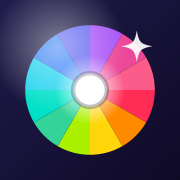
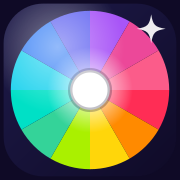
feat: add manifest file for PWA support with color conversion app details

diff --git a/src/app/manifest.ts b/src/app/manifest.ts
@@ -1,0 +1,28 @@
+import type { MetadataRoute } from 'next'
+
+// Required for `output: 'export'` (GitHub Pages) — generate at build time.
+export const dynamic = 'force-static'
+
+// Mesma lógica do next.config.ts: em produção o site vive em /colorchroma.
+const isProd = process.env.NODE_ENV === 'production'
+const basePath = isProd ? '/colorchroma' : ''
+
+export default function manifest(): MetadataRoute.Manifest {
+    return {
+        name: 'Chroma: Escolha e Converta Cores',
+        short_name: 'Chroma',
+        description:
+            'Um estúdio de cores super divertido pra escolher suas cores favoritas e converter entre HEX e RGB num instante.',
+        lang: 'pt-BR',
+        start_url: `${basePath}/`,
+        scope: `${basePath}/`,
+        display: 'standalone',
+        background_color: '#030712',
+        theme_color: '#030712',
+        icons: [
+            { src: `${basePath}/icon.svg`, type: 'image/svg+xml', sizes: 'any' },
+            { src: `${basePath}/icon-192.png`, type: 'image/png', sizes: '192x192' },
+            { src: `${basePath}/icon-512.png`, type: 'image/png', sizes: '512x512' },
+        ],
+    }
+}